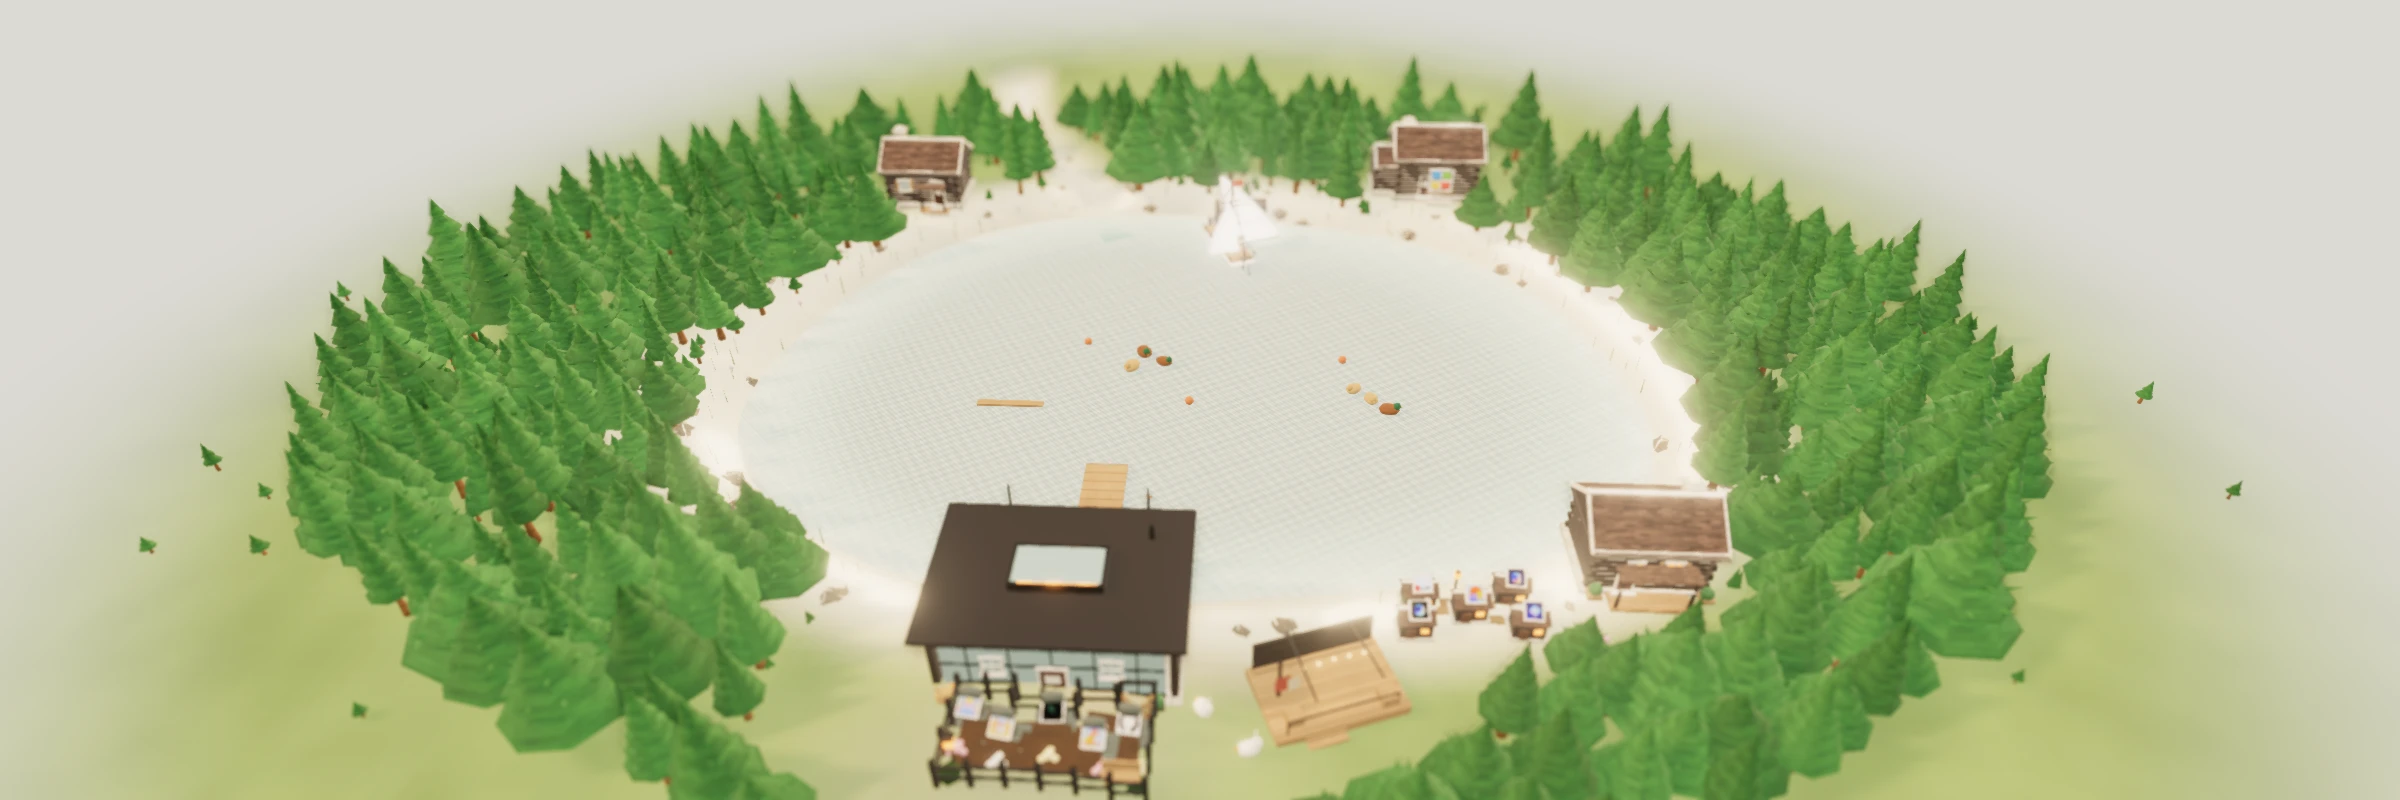
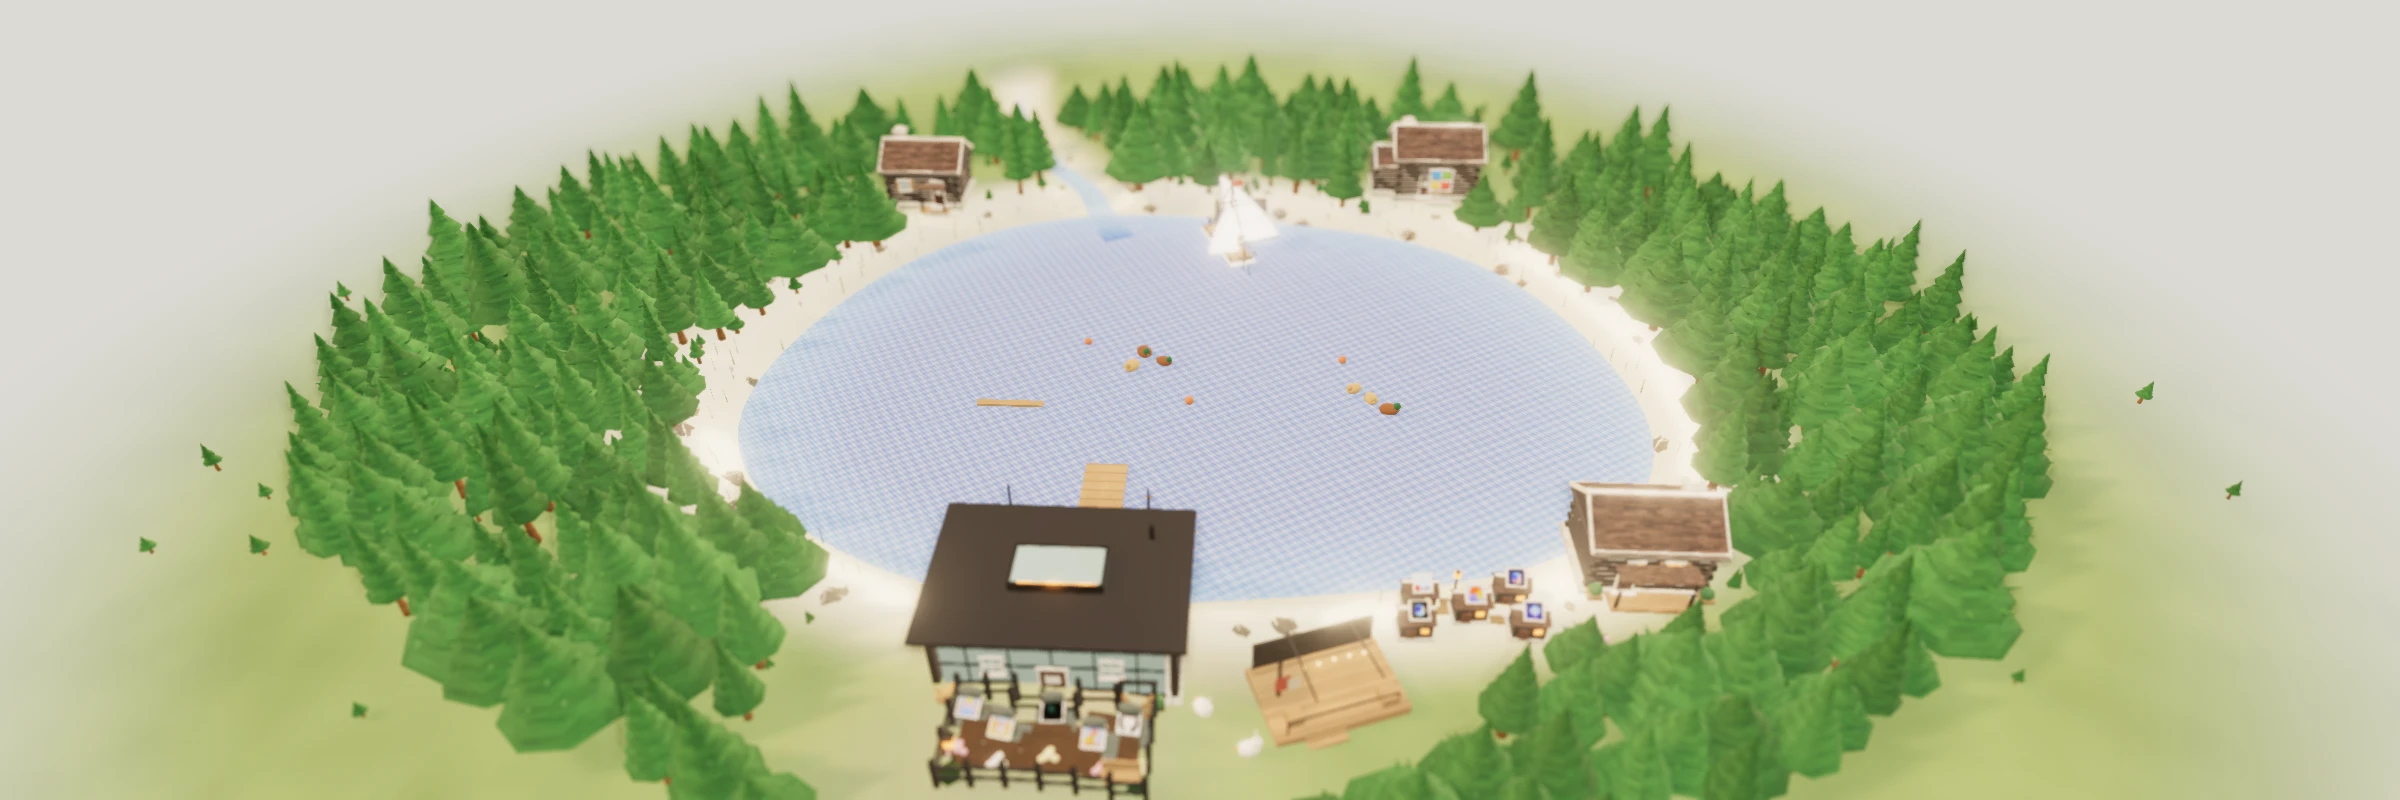
Shift the lake water to a bolder Tahoe blue
Recolor the water texture and the lake shader from teal toward a saturated
cobalt, and refresh the map stills so the loading poster matches.

Changed region(s): [[0.3125, 0.25, 0.6875, 0.75]]

diff --git a/src/scene/lake.ts b/src/scene/lake.ts
@@ -69,10 +69,10 @@ export function setWaterTime(mesh: THREE.Mesh, time: number) {
 }
 
 export const WATER_COLOR_CHUNK = `#include <color_fragment>
-         vec3 deepWater = vec3(0.07, 0.30, 0.38);
-         vec3 bottom = vec3(0.90, 0.82, 0.62);
-         diffuseColor.rgb = mix(diffuseColor.rgb, deepWater, smoothstep(0.78, 0.2, vShore) * 0.28);
-         diffuseColor.rgb = mix(diffuseColor.rgb, bottom, smoothstep(0.62, 0.96, vShore) * 0.34);
+         vec3 deepWater = vec3(0.05, 0.24, 0.68);
+         vec3 bottom = vec3(0.48, 0.72, 0.92);
+         diffuseColor.rgb = mix(diffuseColor.rgb, deepWater, smoothstep(0.78, 0.2, vShore) * 0.48);
+         diffuseColor.rgb = mix(diffuseColor.rgb, bottom, smoothstep(0.62, 0.96, vShore) * 0.22);
          float foamBand = smoothstep(0.8, 0.95, vShore);
          float foamNoise = texture2D(normalMap, vNormalMapUv * 3.2 + vec2(uTime * 0.12, -uTime * 0.05)).y;
          float foam = foamBand * smoothstep(0.4, 0.78, foamNoise);
@@ -119,7 +119,7 @@ function shadeWater(material: THREE.MeshStandardMaterial) {
          normal = normalize(tbn * mapN);`,
       )
   }
-  material.customProgramCacheKey = () => 'lake-water'
+  material.customProgramCacheKey = () => 'lake-water-tahoe'
 }
 
 export function buildWatercraft(

diff --git a/src/scene/river.ts b/src/scene/river.ts
@@ -143,7 +143,7 @@ function shadeRiver(material: THREE.MeshStandardMaterial) {
          normal = normalize(tbn * mapN);`,
       )
   }
-  material.customProgramCacheKey = () => 'river-flow'
+  material.customProgramCacheKey = () => 'river-flow-tahoe'
 }
 
 function addStones(parent: THREE.Object3D, disposal: Disposal, atlas: Atlas) {
